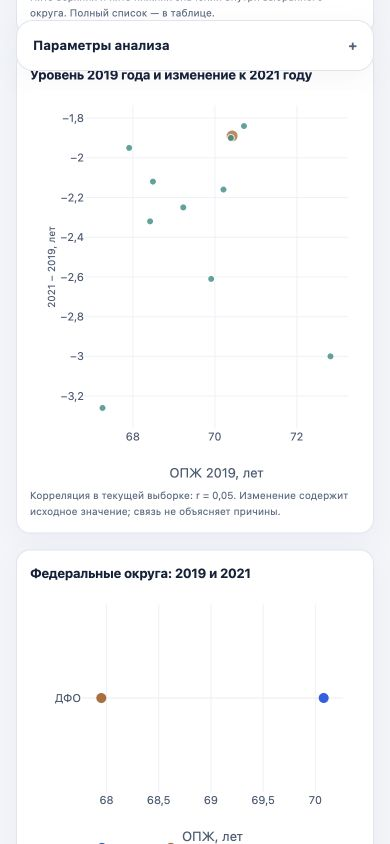
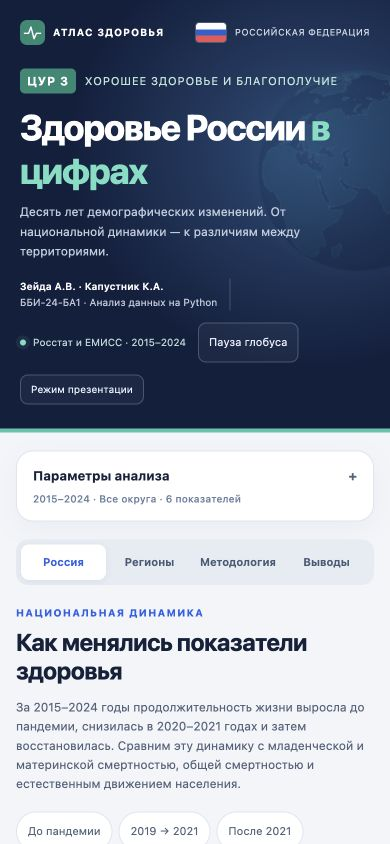
Record verified selector and globe publication [skip render]

diff --git a/report/Проверка_запуска.md b/report/Проверка_запуска.md
@@ -1,7 +1,7 @@
 # Итоговая проверка комплекта
 
 Зейда А.В., Капустник К.А. · ББИ-24-БА1  
-Проверка: 7 октября 2026 года.
+Проверки: 7–8 октября 2026 года.
 
 | Проверка | Результат |
 |---|---|
@@ -19,7 +19,7 @@
 
 ## Статус публикации
 
-Дашборд опубликован по адресу https://trust-road.onrender.com/. В Render подтверждён статус «Deploy succeeded | Live» для коммита `76db416`. Открытие без авторизации, фильтры лет и округов, контрольные значения и выгрузка Приморского края проверены на публичном сайте. На экране 390 px горизонтального сдвига нет; ошибок консоли не обнаружено. Опубликованный HTML побайтно совпал с проверенным локальным файлом. Прежний проект сохранён в отдельной ветке GitHub.
+Дашборд опубликован по адресу https://trust-road.onrender.com/. Обновление интерфейса проверено 8 октября 2026 года. В Render подтверждён статус «Deploy succeeded | Live» для коммита `f6fd32a`. На публичном сайте проверены новый выбор годов и округов, период 2019–2021 (ОПЖ РФ 70,15; изменение −3,19), региональное сравнение Приморского края (68,53; место 57) и CSV ровно с двумя выбранными наблюдениями 2019 и 2021 года. Вращение, остановка и продолжение проверены на опубликованной странице. На экране 390 px горизонтального сдвига нет; ошибок консоли не обнаружено. Опубликованный HTML побайтно совпал с проверенным локальным файлом. Прежний проект сохранён в отдельной ветке GitHub.
 
 Отчёт содержит выводы по фиксированному снимку данных. При изменении исходных таблиц его текст и иллюстрации нужно согласовать с новыми расчётами.
 

diff --git a/report/UX_аудит_и_доработка.md b/report/UX_аудит_и_доработка.md
@@ -38,4 +38,4 @@
 
 Клавиатурой проверены отмена, повторное раскрытие, переход между вариантами, подтверждение и выход по Tab. Проверены согласование обратного диапазона, быстрые периоды, синхронизация карточек и меню, отсутствие региональных срезов в 2024 году и выгрузка всех 11 территорий ДФО за три опорных года — 33 строки. В мобильном меню 390 px последний пункт прокручивается в видимую область, а документ не имеет горизонтальной прокрутки.
 
-Проверка вращения и опубликованной версии записывается отдельно в журнал запуска. Поддержка специальных средств чтения экрана не заявляется как фактически проверенная только на основании ARIA-разметки.
+Вращение, пауза и продолжение проверены на опубликованной странице. Render подтвердил успешное обновление; опубликованный HTML совпадает с проверенным локальным файлом. Подробности записаны в журнал запуска. Поддержка специальных средств чтения экрана не заявляется как фактически проверенная только на основании ARIA-разметки.

diff --git a/README.md b/README.md
@@ -19,7 +19,7 @@
 python serve.py
 ```
 
-Откройте `http://localhost:10000`. Для другого порта задайте переменную `PORT`. Настройки существующего сервиса Trust Road описаны в `RENDER.md`; `run.sh` запускает тот же сервер. Опубликованный сайт: [trust-road.onrender.com](https://trust-road.onrender.com/). Публикация и доступ без входа в аккаунт проверены 7 октября 2026 года.
+Откройте `http://localhost:10000`. Для другого порта задайте переменную `PORT`. Настройки существующего сервиса Trust Road описаны в `RENDER.md`; `run.sh` запускает тот же сервер. Опубликованный сайт: [trust-road.onrender.com](https://trust-road.onrender.com/). Публикация и доступ без входа в аккаунт проверены 7–8 октября 2026 года.
 
 ## Альтернативное приложение Streamlit
 
